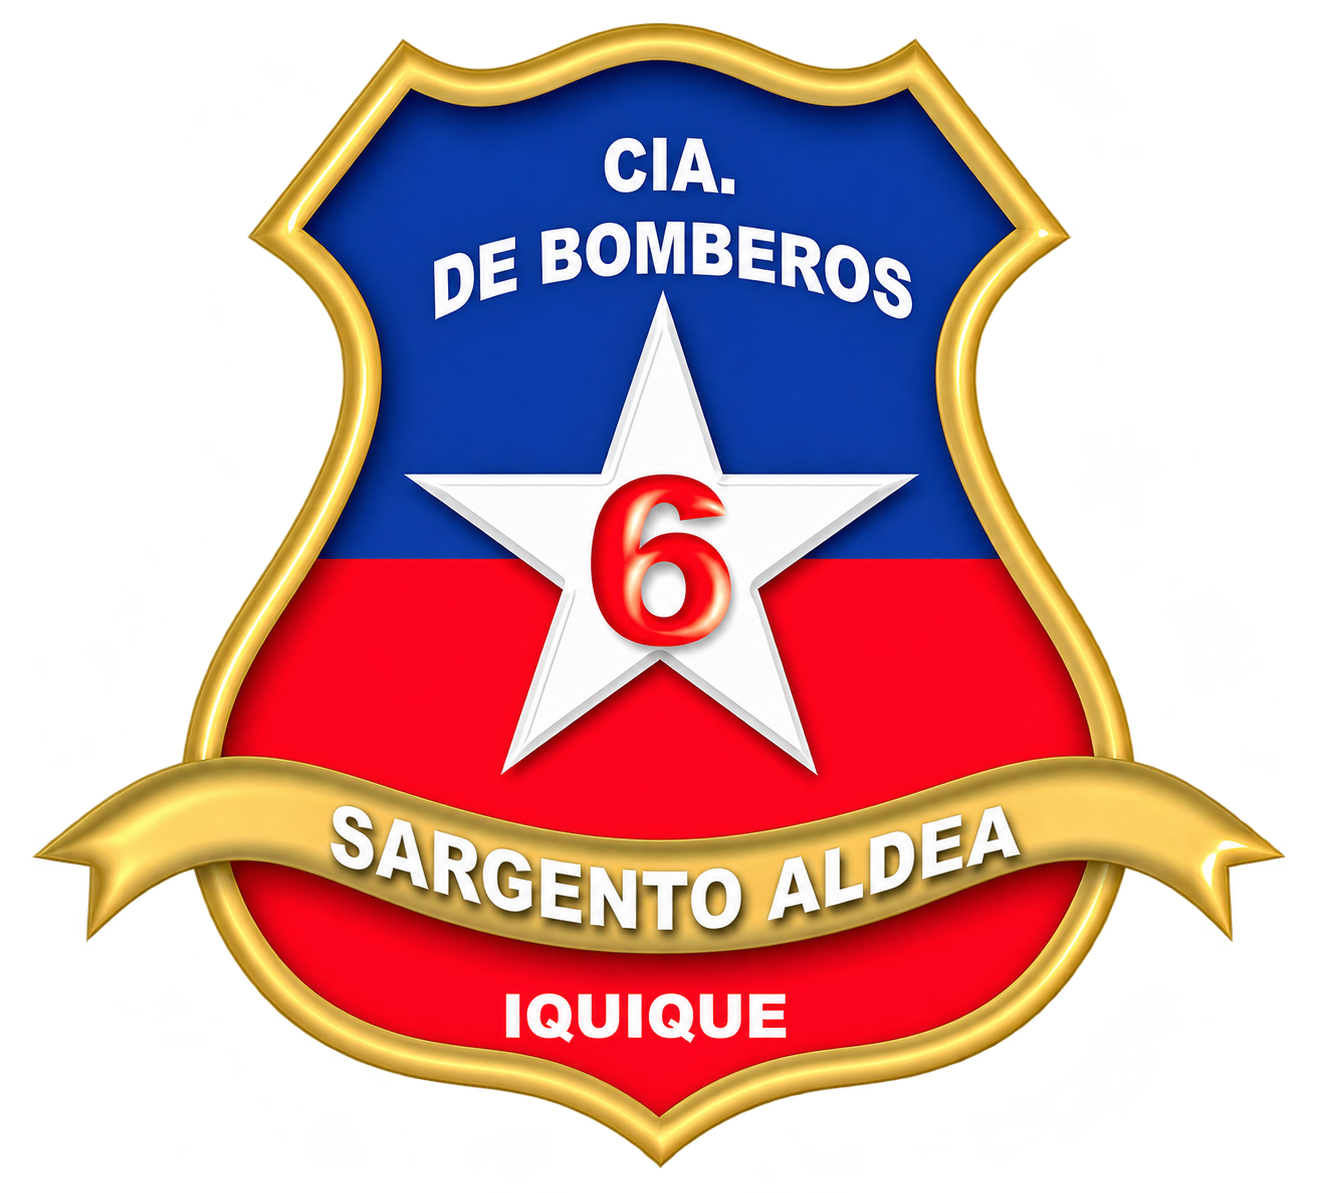
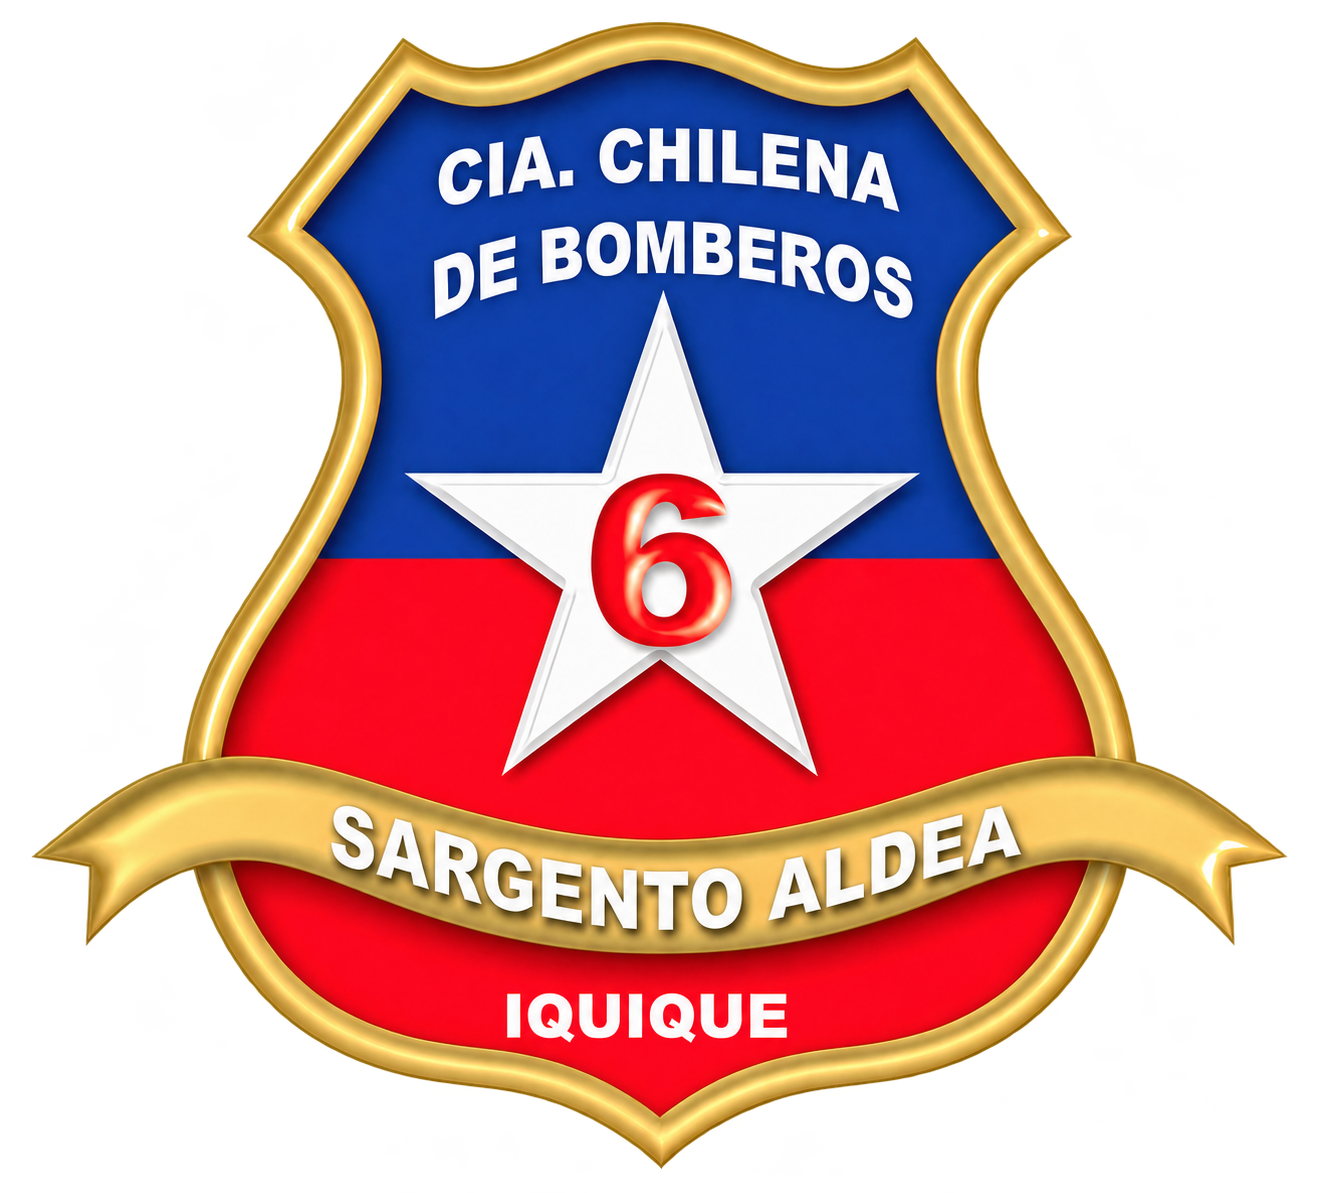
Correct crest lettering to CIA. CHILENA DE BOMBEROS across site

diff --git a/acceso.html b/acceso.html
@@ -1,7 +1,7 @@
 <!DOCTYPE html><html lang="es"><head><meta charset="UTF-8"><meta name="viewport" content="width=device-width,initial-scale=1"><title>Acceso Voluntarios | Sexta Compañía</title><link rel="stylesheet" href="css/style.css"><style>
 main{min-height:72vh;background:#eff0f2;padding:42px 5%}.wrap{max-width:1150px;margin:auto}.eyebrow{font-size:12px;letter-spacing:2px;color:#a71927;font-weight:800}.heading{font-size:clamp(30px,5vw,52px);color:#202a31;margin:10px 0 15px}.panel{background:white;border-left:5px solid #a71927;padding:24px;margin:24px 0;box-shadow:0 2px 8px #0001}.fields{display:flex;flex-wrap:wrap;gap:12px}.fields input{padding:13px;border:1px solid #cdd2d5;min-width:220px;flex:1}.btn{background:#202a31;color:#fff;border:0;padding:13px 18px;font-weight:750;cursor:pointer}.cards{display:grid;grid-template-columns:repeat(auto-fit,minmax(220px,1fr));gap:16px}.tile{background:white;padding:25px;text-decoration:none;color:#202a31;border-top:4px solid #a71927;box-shadow:0 2px 8px #0001}.tile h2{font-size:19px}.tile p{color:#616970;font-size:13px;line-height:1.5}.tile[aria-disabled="true"]{opacity:.53;pointer-events:none}.hint{color:#565f66;font-size:13px}.hide{display:none!important}
 </style></head><body>
-<div class="barra-avance">COMPAÑÍA SARGENTO ALDEA N6 · ACCESO VOLUNTARIOS</div><header class="header"><div class="marca"><img src="escudo-transparente.png?v=completo-2" alt="Escudo Sexta Compañía"><div><h3>COMPAÑÍA SARGENTO ALDEA N6</h3><p>BOMBEROS · IQUIQUE · CHILE</p></div></div><nav><a href="index.html">Inicio</a><a href="guardias.html">Guardias</a></nav></header>
+<div class="barra-avance">COMPAÑÍA SARGENTO ALDEA N6 · ACCESO VOLUNTARIOS</div><header class="header"><div class="marca"><img src="escudo-transparente.png?v=cia-chilena-1" alt="Escudo Sexta Compañía"><div><h3>COMPAÑÍA SARGENTO ALDEA N6</h3><p>BOMBEROS · IQUIQUE · CHILE</p></div></div><nav><a href="index.html">Inicio</a><a href="guardias.html">Guardias</a></nav></header>
 <main><div class="wrap"><div class="eyebrow">PLATAFORMA INSTITUCIONAL · ACCESO RESTRINGIDO</div><h1 class="heading">ACCESO VOLUNTARIOS</h1><p>Ingresa con tu cuenta autorizada de la Sexta Compañía. Las opciones se muestran según tus permisos.</p>
 <section class="panel"><h2>DEMOSTRACIÓN DEL SISTEMA</h2><p>Explora emergencias, academias y perfiles con datos ficticios, sin iniciar sesión.</p><p><a href="asistencia-demo.html">ABRIR DEMO DE ASISTENCIA →</a></p></section>
 <section class="panel" id="loginPanel"><h2>INICIAR SESIÓN</h2><form id="loginForm" class="fields"><input type="email" id="email" aria-label="Correo electrónico" placeholder="Correo electrónico" autocomplete="username" required><input type="password" id="password" aria-label="Contraseña" placeholder="Contraseña" autocomplete="current-password" required><button class="btn">INGRESAR</button></form><p><button class="btn" type="button" id="recover">OLVIDÉ MI CONTRASEÑA</button></p><p class="hint">Escribe tu correo arriba y pulsa este botón para recibir un enlace de recuperación.</p></section>

diff --git a/asistencia-demo.html b/asistencia-demo.html
@@ -23,7 +23,7 @@ button:focus-visible,a:focus-visible,input:focus-visible,select:focus-visible,te
 footer{background:#8f1017;color:#fff;border-top:5px solid #c8a96b}
 @media(max-width:620px){header img{width:50px;height:60px}header strong{font-size:14px}}
 .profile{padding:16px;font-weight:800;border-radius:6px}.official{border-left:5px solid #a9101b;background:#fff;color:#8f1017}.volunteer{border-left:5px solid #0b1c36;background:#f0f2f5;color:#0b1c36}.roster{padding:12px}summary{cursor:pointer;font-weight:750;padding:16px 0}#liveGuests fieldset{padding:16px;border:1px solid #ddd}#liveFeedback{white-space:pre-line;font-weight:650}</style></head><body>
-<header><img src="escudo-transparente.png?v=completo-2" alt="Escudo Sexta"><div><strong>SEXTA COMPAÑÍA</strong><small>SARGENTO ALDEA · IQUIQUE</small></div><a href="index.html">Inicio · Página de la compañía</a><a href="acceso.html">Acceso voluntarios</a></header>
+<header><img src="escudo-transparente.png?v=cia-chilena-1" alt="Escudo Sexta"><div><strong>SEXTA COMPAÑÍA</strong><small>SARGENTO ALDEA · IQUIQUE</small></div><a href="index.html">Inicio · Página de la compañía</a><a href="acceso.html">Acceso voluntarios</a></header>
 <main>
 <section class="panel demo" style="margin-top:0"><p class="kicker">DEMO · DATOS Y CORREOS FICTICIOS</p><h2>Prueba el circuito completo</h2><p class="muted">Esta simulación no usa cuentas, registros ni correos reales. Los cambios se pierden al recargar o reiniciar.</p>
 <div class="grid"><label>Probar como<select id="role"></select></label><div class="actions"><button id="reset" class="secondary">Reiniciar demo</button></div></div>

diff --git a/asistencia.html b/asistencia.html
@@ -32,7 +32,7 @@ input:focus,select:focus,textarea:focus{outline:2px solid #b32137;outline-offset
 footer{border-top:1px solid #e9d8d3}
 @media(max-width:620px){header img,.top img{width:50px;height:60px}header strong,.top strong{font-size:14px}.panel{border-radius:13px}nav button{padding:12px}}
 </style></head><body>
-<header class="top"><img src="escudo-transparente.png?v=completo-2" alt="Escudo Sexta"><div><strong>SEXTA COMPAÑÍA</strong><small>SARGENTO ALDEA · IQUIQUE</small></div><a href="acceso.html">Volver a mi cuenta</a></header>
+<header class="top"><img src="escudo-transparente.png?v=cia-chilena-1" alt="Escudo Sexta"><div><strong>SEXTA COMPAÑÍA</strong><small>SARGENTO ALDEA · IQUIQUE</small></div><a href="acceso.html">Volver a mi cuenta</a></header>
 <main><p class="kicker">CONTROL DE PARTICIPACIÓN</p><h1>Registro de asistencia</h1>
 <p class="intro">Cada actividad tiene un encargado. La presencia se verifica personalmente y cada cambio queda registrado. Tu propia asistencia debe validarla otro responsable.</p>
 <p id="status" role="status" aria-live="polite">Comprobando acceso…</p>

diff --git a/index.html b/index.html
@@ -26,7 +26,7 @@
 <header class="header">
 
   <div class="marca">
-    <img src="escudo-transparente.png?v=completo-2" alt="Escudo Sexta Compañía">
+    <img src="escudo-transparente.png?v=cia-chilena-1" alt="Escudo Sexta Compañía">
 
     <div>
       <h3>COMPAÑÍA SARGENTO ALDEA N6</h3>
@@ -52,7 +52,7 @@
 <section class="hero">
 
 
-  <div class="hero-escudo"><img src="escudo-transparente.png?v=completo-2" alt="Escudo de la Sexta Compañía Sargento Aldea"></div>
+  <div class="hero-escudo"><img src="escudo-transparente.png?v=cia-chilena-1" alt="Escudo de la Sexta Compañía Sargento Aldea"></div>
 
   <div class="hero-contenido">
 

diff --git a/rx6.html b/rx6.html
@@ -61,7 +61,7 @@
 <header class="header">
 
   <div class="marca">
-    <img src="escudo-transparente.png?v=completo-2" alt="Escudo Sexta Compañía">
+    <img src="escudo-transparente.png?v=cia-chilena-1" alt="Escudo Sexta Compañía">
 
     <div>
       <h3>COMPAÑÍA SARGENTO ALDEA N6</h3>

diff --git a/b6.html b/b6.html
@@ -257,7 +257,7 @@
 
   <div class="marca">
 
-    <img src="escudo-transparente.png?v=completo-2" alt="Escudo Sexta Compañía">
+    <img src="escudo-transparente.png?v=cia-chilena-1" alt="Escudo Sexta Compañía">
 
     <div>
       <h3>COMPAÑÍA SARGENTO ALDEA N6</h3>

diff --git a/guardias.html b/guardias.html
@@ -18,7 +18,7 @@
   <header class="header">
 
     <div class="marca">
-      <img src="escudo.png" alt="Escudo Sexta Compañía">
+      <img src="escudo.png?v=cia-chilena-1" alt="Escudo Sexta Compañía">
 
       <div>
         <h3>COMPAÑÍA SARGENTO ALDEA N6</h3>
